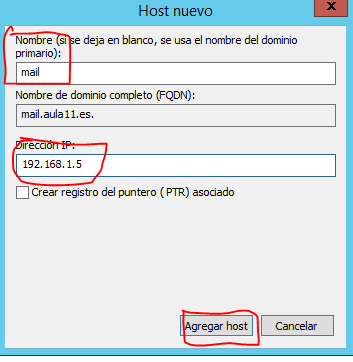
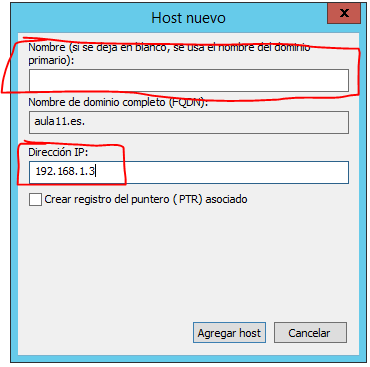
Updated some things in Windows configuration and added new Screenshots

Changed region(s): [[0.0, 0.0, 1.0, 1.0]]

diff --git a/README.md b/README.md
@@ -41,37 +41,61 @@ Al darle a siguiente estaremos en la pantalla para seleccionar el **Nombre de la
 
 ![Configuración del servidor DNS windows](Screenshots/WindowsDNSConfig4.PNG)
 
-Entramos en la carpeta esa y saldrán dos archivos y hacemos clic derecho en la zona black del centro y nos vamos al opción **Host nuevo (A o AAAA)...**
+Entramos en la carpeta esa y saldrán dos archivos y hacemos clic derecho en la zona blanca del centro y nos vamos al opción **Host nuevo (A o AAAA)...**
 
 ![Configuración del servidor DNS windows](Screenshots/WindowsDNSConfig5.PNG)
 
-Al darle se nos abrirá una ventana emergente de configuraciónen la que nos pedirá un **Nombre** y una **dirección IP**, en el nombre podemos poner **mail** como ejemplo y la direccion DNS quedaria así: **`mail.aula11.es`** en mi caso. Una vez introducidos los datos le damos a **Agregar host.**
+Al darle se nos abrirá una ventana emergente de configuraciónen la que nos pedirá un **Nombre** y una **dirección IP**, en el nombre no vamos a poner nada y la direccion IP vamos a poner la que tiene nuestro servidor. Una vez introducidos los datos le damos a **Agregar host.**
 
 ![Configuración del servidor DNS windows](Screenshots/WindowsDNSConfig6.PNG)
 
+**Yo he pues la direccion ip 192.168.1.3, porque es la que tengo asignada ahora mismo a mi servidor, ustedes poneis la vuestra**
+
 Si todo va bien no saltará una ventana emergente diciendo que el host se ha agregado.
 
-Antes de continuar vamos a comprobar que ha funciona lo que hemos hecho.
+Despues de añadir ese host vamos a añadir unos cuantos hosts mas y con distintas direcciones ip:
+    - **`dns.aula11.es`**: este va tener la direccion ip del servidor tambien.
+    - **`web.aula11.es`**: este host va ser de tipo **A o AAAA** y va tener la direccion de nuestro servidor web, para despues asignarle el alias de **www**, **yo en la direccion ip le voy a asignar la 192.168.1.6 aunque no exista**. Después los explico todo.
+    - **`www.aula11.es`**: este va ser de tipo **CNAME** por si queremos tener nuestra pagina web.
+> Para agregar un host de tipo **CNAME** vamos a hacer lo mismo que antes, clic derecho en la zona blanca y saldrá la opción de **Alias nuevo(CNAME)...**
 
-Abrimos el CMD y escribimos los siguientes comandos:
+![Configuración del servidor DNS windows](Screenshots/WindowsDNSConfig15.PNG)
 
-```bash
-ping vuestroDominio(en mi caso es mail.aula11.es)
-```
+Esto es facil ponemos el **Nombre de alias** que es **www** y **Nombre de dominio completo (FQDN) para el host de destino:**, le damos a **Examinar...** y vamos accediendo hasta llegar a la carpeta de nuestro dominio **``aula11.es``** en mi caso, dentro habrá varios archivos que son los hosts que hemos creado anteriormente, le damos en el de **web** que en mi caso tiene la dirección ip **192.168.1.6** y aceptamos.
 
+Hasta este punto deberiamos de tener unos ** 3 achivos de tipo host A** y uno de tipo **CNAME**, es decir, de alias:
+
+![Configuración del servidor DNS windows](Screenshots/WindowsDNSConfig16.PNG)
+
+Vamos a agregar el servidor de correos ya que estamos, agregamos un nuevo host de tipo **A** y le ponemos de nombre **mail** y de dirección ip pues la que tenga nuestro servidor de correos, como no tengo un servidor de correos puesto pues me invento la direccion ip por ejemplo la: **192.168.1.10**.
+
+Y luego vamos a crear el host de tipo **MX**, **Host o dominio secundario**, en blanco y lo que nos interesa es **Nombre de dominio completo(FQDN)...:**, ahi que darle a **Examinar...** y seleccionar el archivo de **mail** con la **direccion ip correspondiente**, o sin entrar a examinar lo escribimos: **`mail.aula11.es`** en mi caso.
+
+
+![Configuración del servidor DNS windows](Screenshots/WindowsDNSConfig17.PNG)
+
+Por ultimo podemos crear dos hosts de prueba, por si tenemos mas maquinas, el primero se va llamar **``WindowsCliente1``** y el otro **`UbuntuCliente1`**. Cada uno con una direccion ip que me he inventado a uno le he puesto la **1.16** y al otro la **1.15**, la zona directa deberia de quedar mas o menos así:
+
+![Configuración del servidor DNS windows](Screenshots/WindowsDNSConfig18.PNG)
+
+Antes de continuar y configurar la zona inversa vamos a comprobar que ha funcionado lo que hemos hecho.
+
+Abrimos el CMD y primero vamos a probar el ping primero:
 Resultado: 
 
-![Configuración del servidor DNS windows](Screenshots/WindowsDNSConfig7.PNG)
+![Configuración del servidor DNS windows](Screenshots/WindowsDNSConfig19.PNG)
 
-Y el siguiente comando para ver que de verdad funciona es el nslookup:
+Os pongo en contexto, mi servidor tiene la dirección ip estática **192.168.1.3** en la imagen se ve como los dos primeros pings funcionan y los otros dos no, esto es porque los dos primeros ping se los hago a los hosts que tienen la direccion ip **192.168.1.3** que se ven a la izquierda.
 
-```bash
-nslookup mail.aula11.es
-```
+Entonces si intento hacer un ping a una direccion ip, que no tiene un equipo o un servicio que conteste, saldrá **host de destino no accesible**
+
+Ahora vamos a probar el comando nslookup con los ejemplos anteoriores y añadiré mas:
 
 Resultado:
 
-![Configuración del servidor DNS windows](Screenshots/WindowsDNSConfig8.PNG)
+![Configuración del servidor DNS windows](Screenshots/WindowsDNSConfig20.PNG)
+
+**Saldra servidor: Unkown** no os preocupeis por esto, sale eso porque no tenemos configurada todavia la zona inversa, en cuanto la configuremos saldrá nuestro dominio. En la imagen se ve a la derecha el comando **nslookup** y a la izquierda las llamadas a cada archivo y como en el comando nslookup tienen las direcciones IP asignadas a cada archivo.
 
 Pero ahora hay un problema si hacemos el nslookup a la direccion ip no funciona, asi que ahora toca configurar la zona inversa, para hacer esto volvemos a la configuración del DNS
 
@@ -81,7 +105,7 @@ En esta pestaña dejamos marcada la primera opción **Zona de búsqueda inversa 
 
 ![Configuración del servidor DNS windows](Screenshots/WindowsDNSConfig9.PNG)
 
-Al darle a siguiente nos pedirá una **Id. de red** aquí lo que tenemos que poner son las 3 primeras porciones de la direccion IP que le hemos asignado al servidor, en mi caso tengo la **192.168.1.5**, entonces tendría que poner la **192.168.1**, si teneis la direccion ip 192.168.61.100, pues tendríais que poner en el **Id. de red** lo siguiente: **192.168.61**, ya solo faltaría ir dandole a siguiente hasta finalizar la cofiguración
+Al darle a siguiente nos pedirá una **Id. de red** aquí lo que tenemos que poner son las 3 primeras porciones de la direccion IP que le hemos asignado al servidor, en mi caso tengo la **192.168.1.3**, entonces tendría que poner la **192.168.1**, si teneis la direccion ip **192.168.61.100**, pues tendríais que poner en el **Id. de red** lo siguiente: **192.168.61**, ya solo faltaría ir dandole a siguiente hasta finalizar la cofiguración
 
 ![Configuración del servidor DNS windows](Screenshots/WindowsDNSConfig10.PNG)
 
@@ -89,13 +113,23 @@ Conforme acabe la configuración entramos en la carpeta que se habrá creado y l
 
 ![Configuración del servidor DNS windows](Screenshots/WindowsDNSConfig11.PNG)
 
-A elegir esa opción se nos abrirá una ventanita llamada **Nuevo registro de recursos**, vamos a ir **Nombre de host** y a **Examinar...**, y se nos abrirá como un explorador de archivos, lo primero que saldrá es el **nombre del servidor**, entramos en el y luego aparecerá la carpeta **Zonas de búsqueda directa**, entramos en ella y saldrá el **nombre de nuestra zona** y dentro de ella el **host** que creamos, lo seleccionamos y aceptamos. Ahora vamos a probar que funciona:
+A elegir esa opción se nos abrirá una ventanita llamada **Nuevo registro de recursos**, vamos a ir **Nombre de host** y a **Examinar...**, y se nos abrirá como un explorador de archivos, lo primero que saldrá es el **nombre del servidor**, entramos en el y luego aparecerá la carpeta **Zonas de búsqueda directa**, entramos en ella y saldrá el **nombre de nuestra zona** y dentro de ella estarán todos los **hosts** que creamos, lo seleccionamos y aceptamos.
+
+> Tenemos que crear un puntero **PTR** por cada host que tenemos configurado en la zona directa, si habeis seguido mis pasos deberiais de tener **unos 6 punteros PTR**
+
+![Configuración del servidor DNS windows](Screenshots/WindowsDNSConfig21.PNG)
+
+Antes de comprobar que funciona esto, vamos a reiniciar el servidor **DNS** en el **Administrador de Servidores**
+
+![Configuración del servidor DNS windows](Screenshots/WindowsDNSConfig22.PNG)
 
 - Abrimos el CMD y ejecutamos el nslookup sobre la direccion ip asignada al servidor:
 
 Resultado:
 
-![Configuración del servidor DNS windows](Screenshots/WindowsDNSConfig12.PNG)
+![Configuración del servidor DNS windows](Screenshots/WindowsDNSConfig23.PNG)
+
+En la imagen se ve que funcionan todas las direccion con nslookup.
 
 > Antes de realizar las pruebas teneis que configurar la tarjeta de red en ubuntu de la siguiente manera.
 
